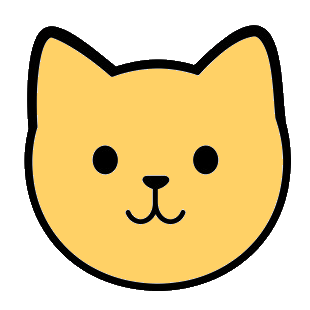
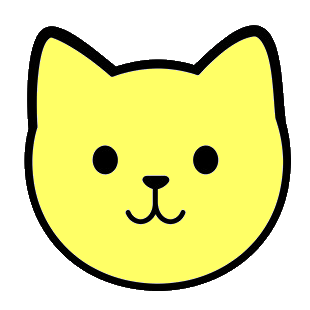
<feat>(seat.css): modify seat_selected  color

diff --git a/css/seat.css b/css/seat.css
@@ -451,7 +451,7 @@
 }
 
 .legend-color.selected {
-    background: #FFD166;
+    background: #ffff66;
     /* 已选座位 */
 }
 
